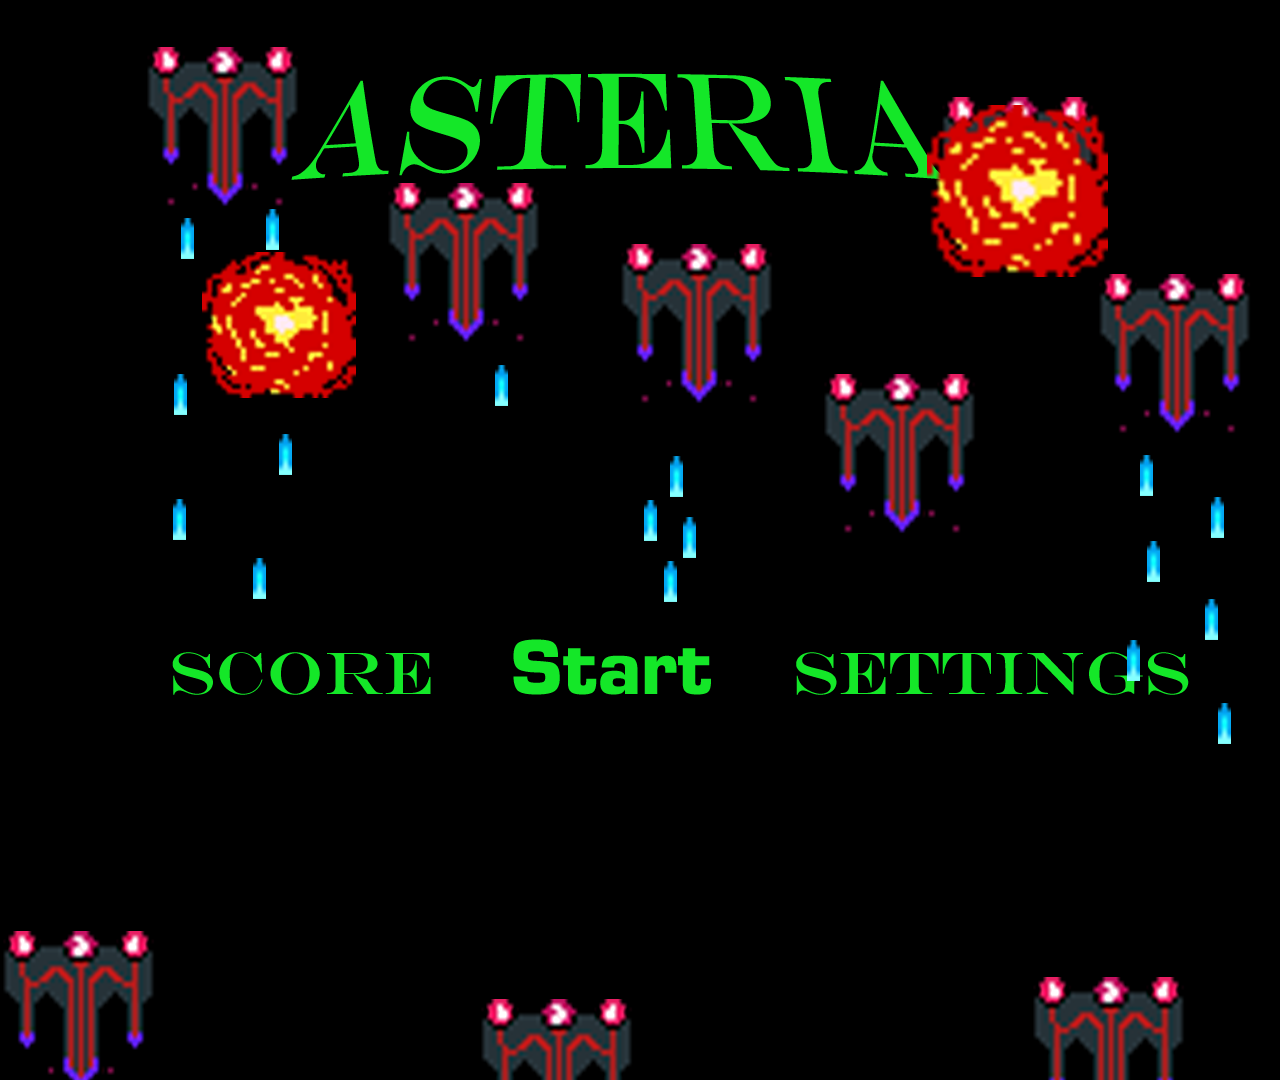
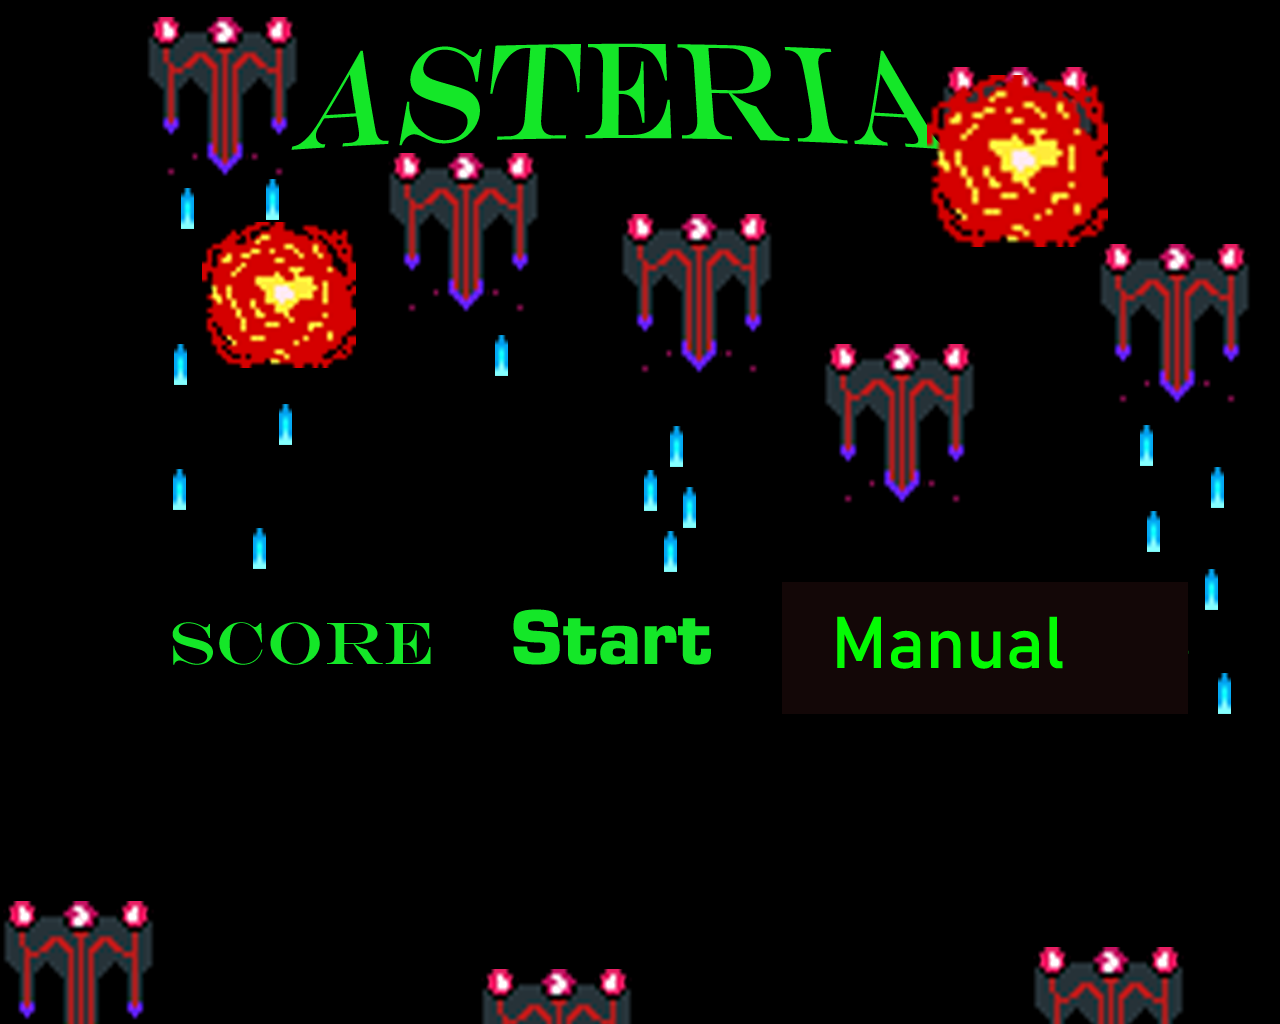
Add files via upload

diff --git a/Steuerung.java b/Steuerung.java
@@ -192,6 +192,10 @@ public class Steuerung implements KeyListener{
                 {ansicht.setStart(2);
                     start=2;
                 }
+                else if(bg==2)
+                {ansicht.setStart(3);
+                    start=3;
+                }
             }
             ansicht.setbg(bg);
             ansicht.repaint();
@@ -320,6 +324,7 @@ public class Steuerung implements KeyListener{
                             Timer t1=new Timer();
                             ansicht.decreaseHealth();
                             spieler.stopMove();
+                            
 
                             ansicht.setHit(true, xk, yk, 1, true);
                             t1.schedule(new TimerTask(){
@@ -370,8 +375,8 @@ public class Steuerung implements KeyListener{
                             {
                             storage(d);
                         }
-                            score=0;
-                            ansicht.setScore(0);
+                        score=0;
+                        ansicht.setScore(0);
                         }
                     }
                 }

diff --git a/Ansicht.java b/Ansicht.java
@@ -268,7 +268,7 @@ private static String ladeDatei(String datName) {
             else{g.drawImage(sap, (int) (screenHeight*0.9), (int) (screenHeight*0.7), (int) (screenHeight*0.1),(int) (screenHeight*0.1), this);}
 
         }
-        else{
+        else if (start==2){
         Image sat=zeugs.getImage("score.png");
             g.drawImage(sat, 0, 0,(int) (screenHeight*1.25), screenHeight, this);
            try{
@@ -280,6 +280,10 @@ private static String ladeDatei(String datName) {
                 }
            g.setColor(Color.RED);
             g.drawString(reade(),(int) (screenHeight*0.5), (int) (screenHeight*0.57));
+        }
+        else{
+            Image sat=zeugs.getImage("Manual.png");
+            g.drawImage(sat, 0, 0,(int) (screenHeight*1.25), screenHeight, this);
         }
 
     }
